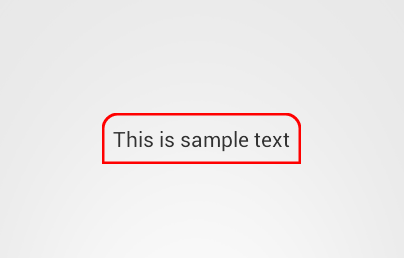
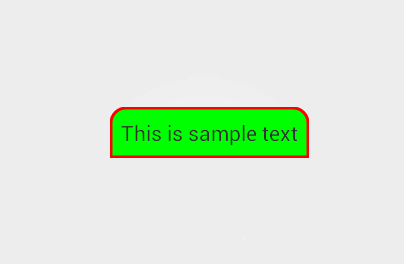
Cleaned up code. Updated example.

Changed region(s): [[0.2376, 0.4031, 0.7723, 0.6512]]

diff --git a/BorderedViews/src/com/brentpanther/borderedviews/Borders.java b/BorderedViews/src/com/brentpanther/borderedviews/Borders.java
@@ -22,18 +22,14 @@ public class Borders {
 	private int background;
 	private Paint paint;
 	private boolean paddingCalculated = false;
+	boolean needToSetBackgroundTransparent;
 	
 	public Borders() {
 		paint = new Paint();
 		background = Color.TRANSPARENT;
-	}
-	
-	interface Closure {
-		void setBackgroundTransparent();
-	}
-	
+	}	
 
-	public Borders(Bordered view, Context context, AttributeSet attrs, Closure c) {
+	public Borders(Bordered view, Context context, AttributeSet attrs) {
 		TypedArray a = context.getTheme().obtainStyledAttributes(attrs, R.styleable.Borders, 0, 0);
 		radii = new float[4];
 		try {
@@ -43,7 +39,7 @@ public class Borders {
 				if(v.type == TypedValue.TYPE_INT_COLOR_ARGB4 || v.type == TypedValue.TYPE_INT_COLOR_ARGB8
 					|| v.type == TypedValue.TYPE_INT_COLOR_RGB4 || v.type == TypedValue.TYPE_INT_COLOR_RGB8) {
 					background = a.getColor(R.styleable.Borders_android_background, -1);
-					c.setBackgroundTransparent();
+					needToSetBackgroundTransparent = true;
 				} 
 			}
 			if(a.hasValue(R.styleable.Borders_border_radius)) {

diff --git a/BorderedViews/src/com/brentpanther/borderedviews/BorderedRelativeLayout.java b/BorderedViews/src/com/brentpanther/borderedviews/BorderedRelativeLayout.java
@@ -18,12 +18,8 @@ public class BorderedRelativeLayout extends RelativeLayout implements Bordered {
 
 	public BorderedRelativeLayout(Context context, AttributeSet attrs) {
 		super(context, attrs);
-		borders = new Borders(this, context, attrs, new Borders.Closure() {
-			@Override
-			public void setBackgroundTransparent() {
-				BorderedRelativeLayout.super.setBackgroundColor(Color.TRANSPARENT);
-			}
-		});
+		borders = new Borders(this, context, attrs);
+		if(borders.needToSetBackgroundTransparent) super.setBackgroundColor(Color.TRANSPARENT);
 		this.setWillNotDraw(false);
 	}
 	

diff --git a/BorderedViews/src/com/brentpanther/borderedviews/BorderedImageView.java b/BorderedViews/src/com/brentpanther/borderedviews/BorderedImageView.java
@@ -17,12 +17,8 @@ public class BorderedImageView extends ImageView implements Bordered {
 
 	public BorderedImageView(Context context, AttributeSet attrs) {
 		super(context, attrs);
-		borders = new Borders(this, context, attrs, new Borders.Closure() {
-			@Override
-			public void setBackgroundTransparent() {
-				BorderedImageView.super.setBackgroundColor(Color.TRANSPARENT);
-			}
-		});
+		borders = new Borders(this, context, attrs);
+		if(borders.needToSetBackgroundTransparent) super.setBackgroundColor(Color.TRANSPARENT);
 	}
 	
 	void superSetBackgroundColor(int background) {

diff --git a/BorderedViews/src/com/brentpanther/borderedviews/BorderedLinearLayout.java b/BorderedViews/src/com/brentpanther/borderedviews/BorderedLinearLayout.java
@@ -18,12 +18,8 @@ public class BorderedLinearLayout extends LinearLayout implements Bordered {
 
 	public BorderedLinearLayout(Context context, AttributeSet attrs) {
 		super(context, attrs);
-		borders = new Borders(this, context, attrs, new Borders.Closure() {
-			@Override
-			public void setBackgroundTransparent() {
-				BorderedLinearLayout.super.setBackgroundColor(Color.TRANSPARENT);
-			}
-		});
+		borders = new Borders(this, context, attrs);
+		if(borders.needToSetBackgroundTransparent) super.setBackgroundColor(Color.TRANSPARENT);
 		this.setWillNotDraw(false);
 	}
 	

diff --git a/BorderedViews/src/com/brentpanther/borderedviews/BorderedButton.java b/BorderedViews/src/com/brentpanther/borderedviews/BorderedButton.java
@@ -17,12 +17,8 @@ public class BorderedButton extends Button implements Bordered {
 
 	public BorderedButton(Context context, AttributeSet attrs) {
 		super(context, attrs);
-		borders = new Borders(this, context, attrs, new Borders.Closure() {
-			@Override
-			public void setBackgroundTransparent() {
-				BorderedButton.super.setBackgroundColor(Color.TRANSPARENT);
-			}
-		});
+		borders = new Borders(this, context, attrs);
+		if(borders.needToSetBackgroundTransparent) super.setBackgroundColor(Color.TRANSPARENT);
 	}
 	
 	void superSetBackgroundColor(int background) {

diff --git a/BorderedViews/src/com/brentpanther/borderedviews/BorderedTextView.java b/BorderedViews/src/com/brentpanther/borderedviews/BorderedTextView.java
@@ -17,12 +17,8 @@ public class BorderedTextView extends TextView implements Bordered {
 
 	public BorderedTextView(Context context, AttributeSet attrs) {
 		super(context, attrs);
-		borders = new Borders(this, context, attrs, new Borders.Closure() {
-			@Override
-			public void setBackgroundTransparent() {
-				BorderedTextView.super.setBackgroundColor(Color.TRANSPARENT);
-			}
-		});
+		borders = new Borders(this, context, attrs);
+		if(borders.needToSetBackgroundTransparent) super.setBackgroundColor(Color.TRANSPARENT);
 	}
 	
 	@Override

diff --git a/README.md b/README.md
@@ -30,6 +30,7 @@ See attrs.xml for the complete list of attributes.
         android:layout_height="wrap_content"
         android:padding="5dp"
         android:text="This is sample text"
+        android:background="#00ff00"
         b:radiusTopLeft="15"
         b:radiusTopRight="15"
         b:borderWidth="2dp"
